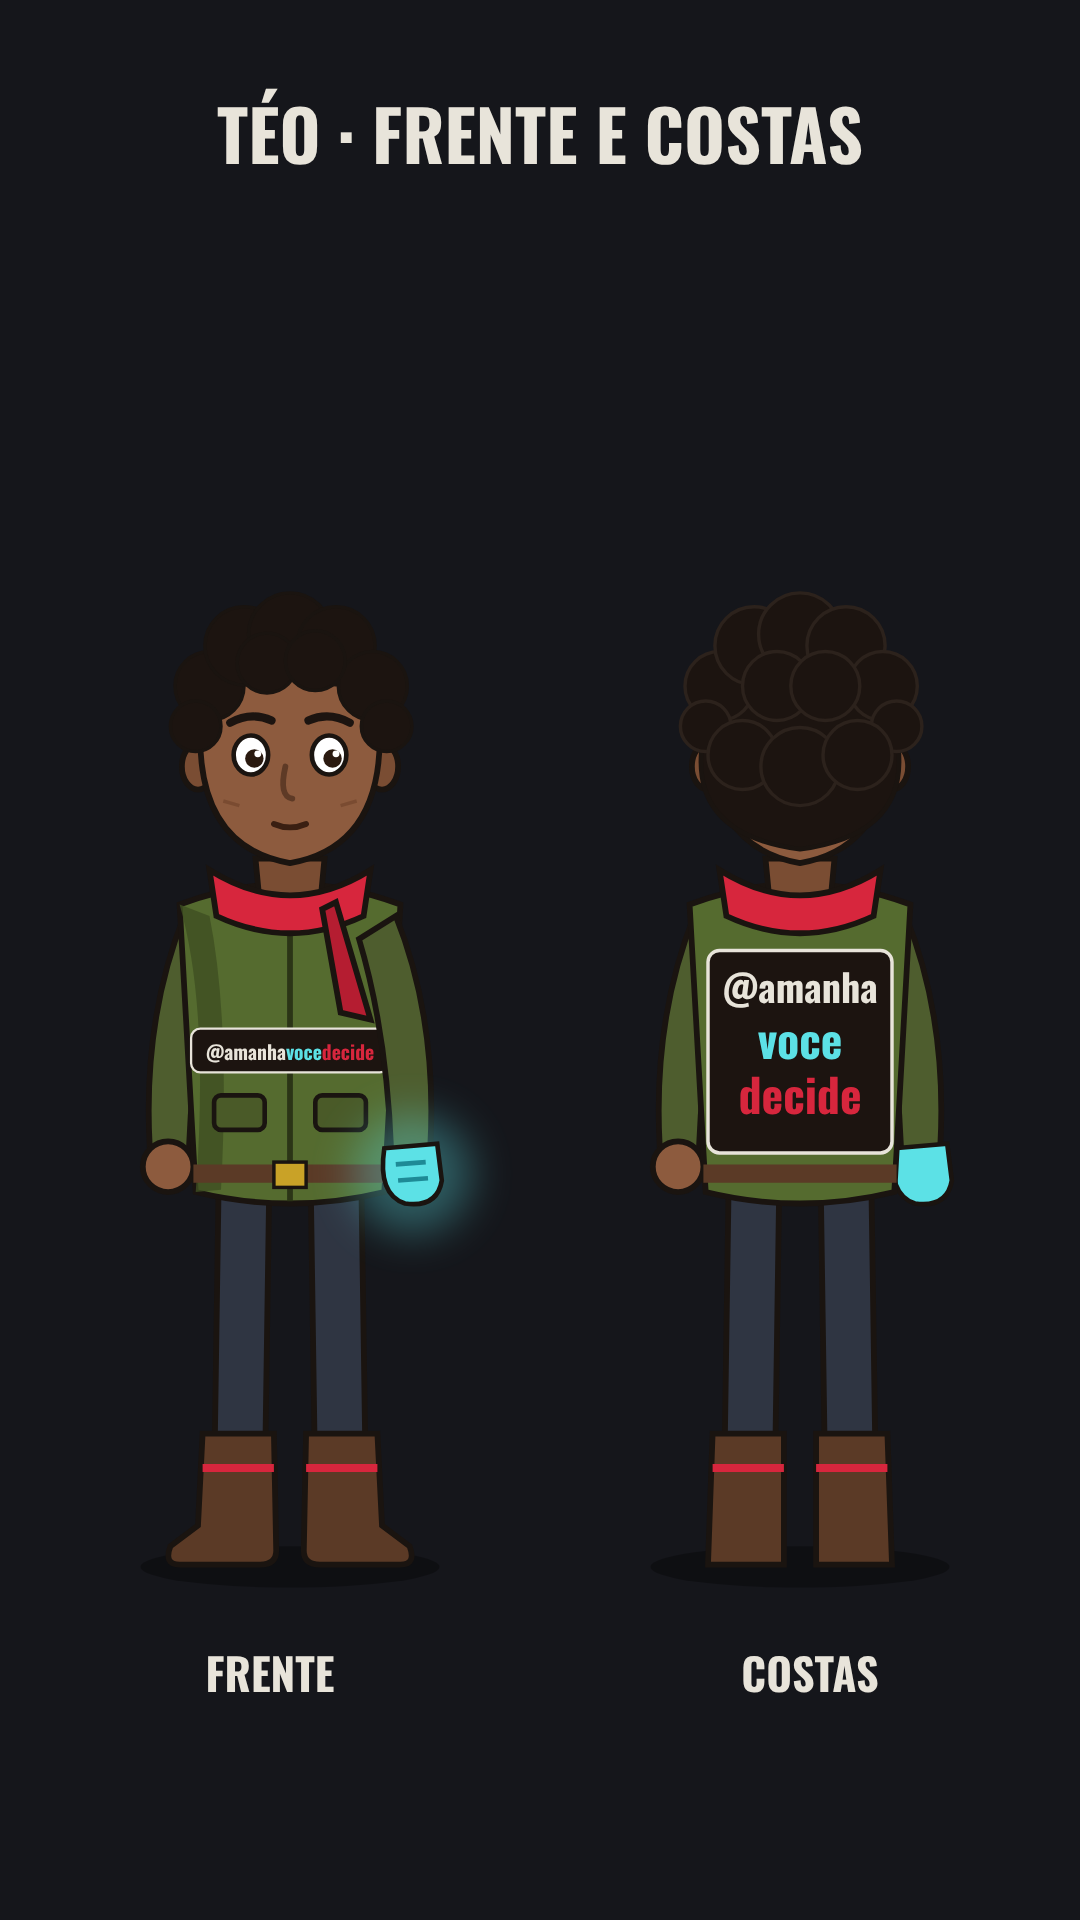
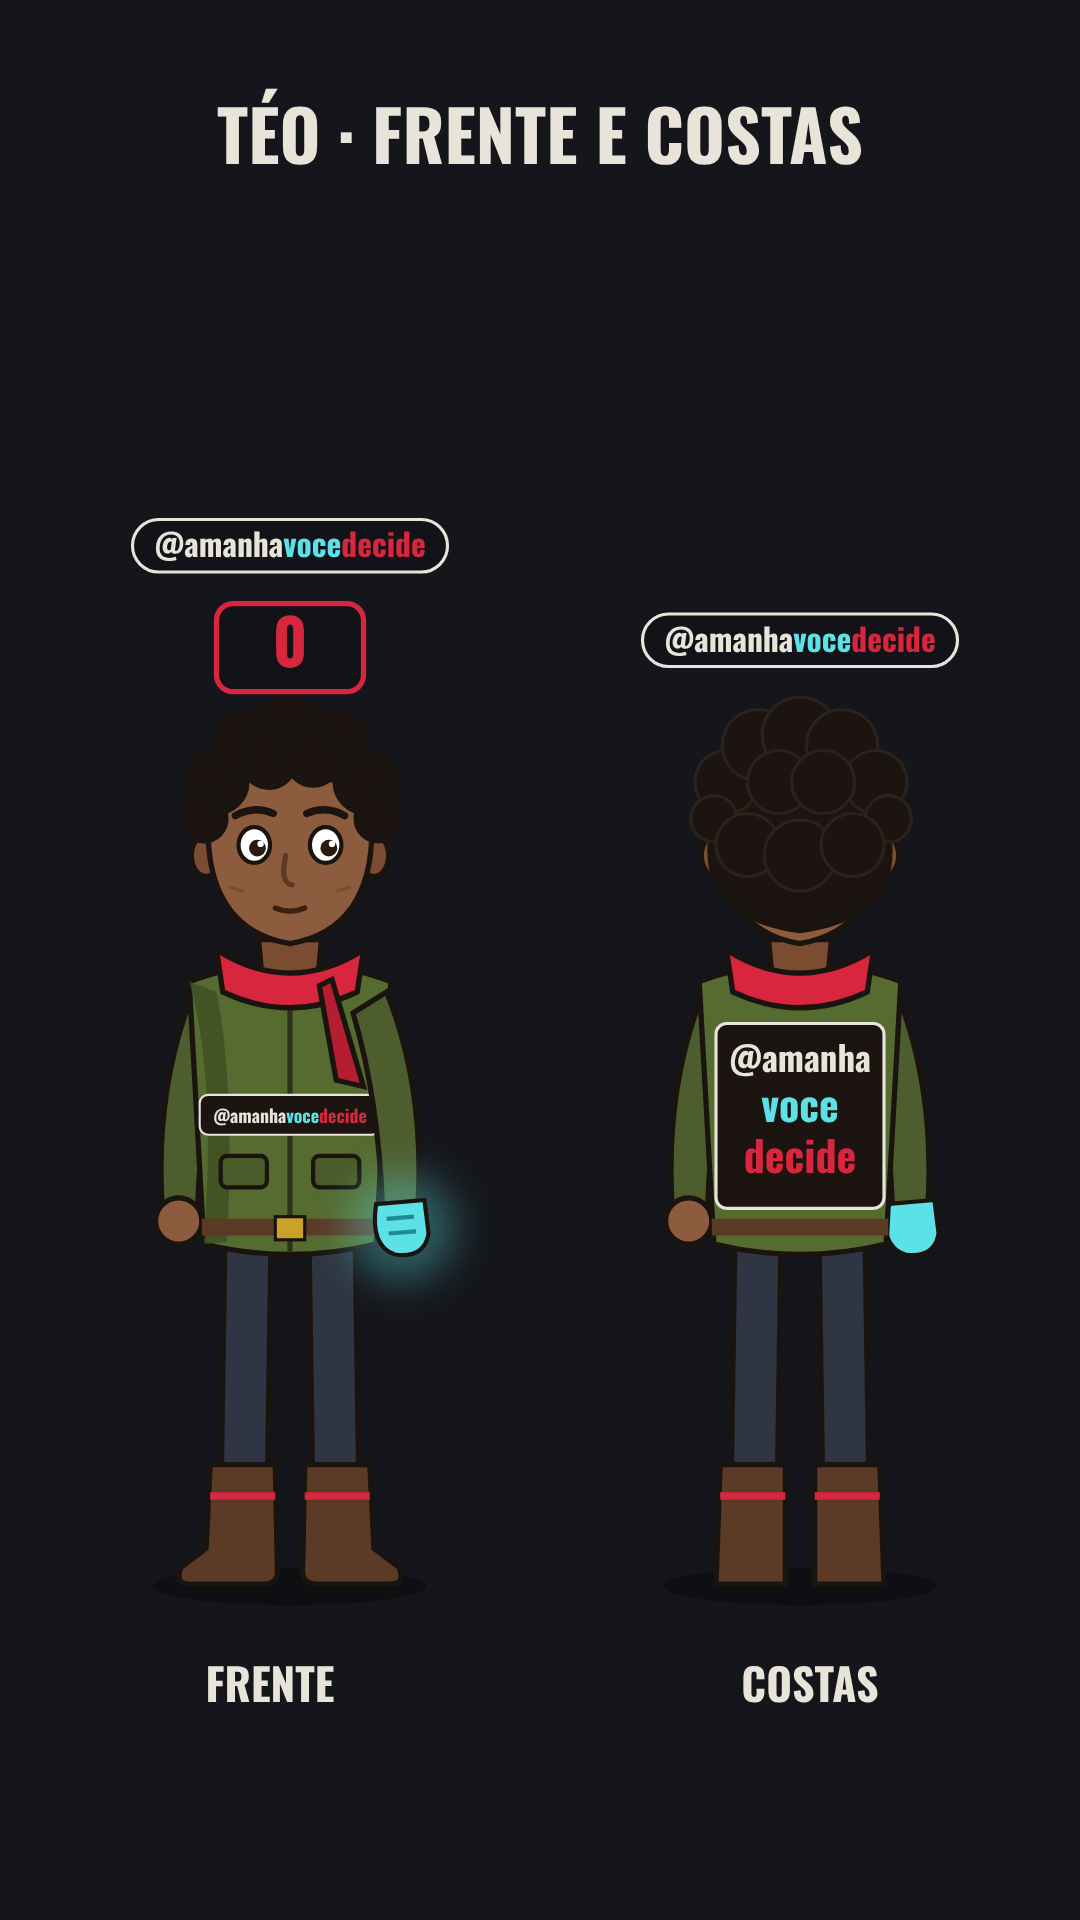
chore: add name tag above Téo's head and restore expression rig
Claude-Session: https://claude.ai/code/session_019h7FgXJJ13iRwHfbupnfvq

Changed region(s): [[0.1222, 0.25, 0.4583, 0.9062], [0.6111, 0.4375, 0.8861, 0.9062], [0.5806, 0.3125, 0.8861, 0.3438]]

diff --git a/amanha-voce-decide/serie-nivel0/marca/teo-frente-costas.html b/amanha-voce-decide/serie-nivel0/marca/teo-frente-costas.html
@@ -6,7 +6,7 @@ body{margin:0;width:1080px;height:1920px;background:#070708;font-family:Osw}
 .t{position:absolute;left:0;width:1080px;text-align:center;color:#E8E4DA;font-weight:700}
 </style></head><body>
 <svg width="1080" height="1920" viewBox="0 0 1080 1920" style="position:absolute;left:0;top:0"><defs><filter id="blur18" x="-100%" y="-100%" width="300%" height="300%"><feGaussianBlur stdDeviation="18"/></filter></defs><rect width="1080" height="1920" fill="#15161b"/>
-<g transform="translate(290 1560) scale(1.15)">
+<g transform="translate(290 1580) scale(1.05)">
 <g id="f">
  <ellipse cx="0" cy="6" rx="130" ry="18" fill="#000" opacity="0.3"/>
  <g id="f-legL"><path d="M-62 -330 L-18 -330 L-22 -60 L-66 -60 Z" fill="#2f3542" stroke="#1a1410" stroke-width="5"/>
@@ -35,14 +35,14 @@ body{margin:0;width:1080px;height:1920px;background:#070708;font-family:Osw}
   <ellipse cx="80" cy="-690" rx="14" ry="20" fill="#7a4d33" stroke="#1a1410" stroke-width="5"/>
   <path d="M-78 -720 Q-80 -620 0 -606 Q80 -620 78 -720 Q70 -790 0 -792 Q-70 -790 -78 -720 Z" fill="#8D5B3E" stroke="#1a1410" stroke-width="5"/>
   <g fill="#1c1410" stroke="#1a1410" stroke-width="3"><circle cx="-70" cy="-760" r="30"/><circle cx="-40" cy="-795" r="34"/><circle cx="0" cy="-805" r="36"/><circle cx="40" cy="-795" r="34"/><circle cx="72" cy="-760" r="30"/><circle cx="-82" cy="-725" r="22"/><circle cx="84" cy="-725" r="22"/><circle cx="-20" cy="-780" r="26"/><circle cx="22" cy="-782" r="26"/></g>
-  <g id="f-eyes"><ellipse cx="-34" cy="-700" rx="15" ry="17" fill="#fff" stroke="#1a1410" stroke-width="4"/><ellipse cx="34" cy="-700" rx="15" ry="17" fill="#fff" stroke="#1a1410" stroke-width="4"/><circle cx="-31" cy="-697" r="8" fill="#2a1a10"/><circle cx="37" cy="-697" r="8" fill="#2a1a10"/><circle cx="-28" cy="-701" r="3" fill="#fff"/><circle cx="40" cy="-701" r="3" fill="#fff"/></g>
-  <g stroke="#1c1410" stroke-width="7" fill="none" stroke-linecap="round"><path d="M-52 -728 Q-34 -738 -16 -730" /><path d="M16 -730 Q34 -738 52 -728" /></g>
+  <g id="f-x-neutro" opacity="1"><g id="f-eyes-neutro"><ellipse cx="-34" cy="-700" rx="15" ry="17" fill="#fff" stroke="#1a1410" stroke-width="4"/><ellipse cx="34" cy="-700" rx="15" ry="17" fill="#fff" stroke="#1a1410" stroke-width="4"/><circle cx="-31" cy="-697" r="8" fill="#2a1a10"/><circle cx="37" cy="-697" r="8" fill="#2a1a10"/><circle cx="-28" cy="-701" r="3" fill="#fff"/><circle cx="40" cy="-701" r="3" fill="#fff"/></g><g stroke="#1c1410" stroke-width="7" fill="none" stroke-linecap="round"><path d="M-52 -728 Q-34 -738 -16 -730" /><path d="M16 -730 Q34 -738 52 -728" /></g><path d="M-14 -640 Q0 -634 14 -640" stroke="#3a1f12" stroke-width="5" fill="none" stroke-linecap="round"/></g><g id="f-x-medo" opacity="0"><g id="f-eyes-medo"><ellipse cx="-34" cy="-702" rx="17" ry="21" fill="#fff" stroke="#1a1410" stroke-width="4"/><ellipse cx="34" cy="-702" rx="17" ry="21" fill="#fff" stroke="#1a1410" stroke-width="4"/><circle cx="-34" cy="-700" r="5" fill="#2a1a10"/><circle cx="34" cy="-700" r="5" fill="#2a1a10"/></g><g stroke="#1c1410" stroke-width="7" fill="none" stroke-linecap="round"><path d="M-52 -738 Q-36 -750 -18 -742" /><path d="M18 -742 Q36 -750 52 -738" /></g><ellipse cx="0" cy="-638" rx="12" ry="15" fill="#3a1f12"/></g><g id="f-x-decidido" opacity="0"><g id="f-eyes-decidido"><path d="M-50 -704 Q-34 -712 -18 -704 L-18 -696 Q-34 -690 -50 -696 Z" fill="#fff" stroke="#1a1410" stroke-width="4"/><path d="M18 -704 Q34 -712 50 -704 L50 -696 Q34 -690 18 -696 Z" fill="#fff" stroke="#1a1410" stroke-width="4"/><circle cx="-32" cy="-700" r="6" fill="#2a1a10"/><circle cx="36" cy="-700" r="6" fill="#2a1a10"/></g><g stroke="#1c1410" stroke-width="7" fill="none" stroke-linecap="round"><path d="M-54 -726 L-16 -716" /><path d="M16 -716 L54 -726" /></g><path d="M-16 -638 L16 -642" stroke="#3a1f12" stroke-width="5" fill="none" stroke-linecap="round"/></g>
   <path d="M-4 -690 Q-10 -664 2 -662" stroke="#5e3a26" stroke-width="5" fill="none" stroke-linecap="round"/>
-  <path d="M-14 -640 Q0 -634 14 -640" stroke="#3a1f12" stroke-width="5" fill="none" stroke-linecap="round"/>
   <path d="M-58 -660 L-44 -656 M44 -656 L58 -660" stroke="#6e4229" stroke-width="3" opacity="0.6"/>
  </g>
+ <g id="f-lvl"><rect x="-70" y="-930" width="140" height="84" rx="16" fill="#111318" stroke="#D7263D" stroke-width="5"/><text id="f-lvlt" x="0" y="-870" font-family="Oswald, Osw" font-weight="700" font-size="60" text-anchor="middle" fill="#D7263D">0</text></g>
+ <g id="f-tag"><rect x="-150" y="-1010" width="300" height="50" rx="25" fill="#111318" fill-opacity="0.85" stroke="#E8E4DA" stroke-width="3"/><text x="0" y="-974" font-family="Oswald, Osw" font-weight="700" font-size="30" text-anchor="middle" fill="#E8E4DA">@amanha<tspan fill="#5CE1E6">voce</tspan><tspan fill="#D7263D">decide</tspan></text></g>
 </g></g>
-<g transform="translate(800 1560) scale(1.15)">
+<g transform="translate(800 1580) scale(1.05)">
 <g id="b">
  <ellipse cx="0" cy="6" rx="130" ry="18" fill="#000" opacity="0.3"/>
  <g><path d="M-62 -330 L-18 -330 L-22 -60 L-66 -60 Z" fill="#2f3542" stroke="#1a1410" stroke-width="5"/>
@@ -64,7 +64,8 @@ body{margin:0;width:1080px;height:1920px;background:#070708;font-family:Osw}
  <path d="M-78 -720 Q-80 -620 0 -606 Q80 -620 78 -720 Q70 -790 0 -792 Q-70 -790 -78 -720 Z" fill="#8D5B3E" stroke="#1a1410" stroke-width="5"/>
  <path d="M-86 -700 Q-90 -630 0 -618 Q90 -630 86 -700 Q84 -800 0 -812 Q-84 -800 -86 -700 Z" fill="#1c1410" stroke="#1a1410" stroke-width="4"/>
  <g fill="#1c1410" stroke="#2c221c" stroke-width="3"><circle cx="-70" cy="-760" r="30"/><circle cx="-40" cy="-795" r="34"/><circle cx="0" cy="-805" r="36"/><circle cx="40" cy="-795" r="34"/><circle cx="72" cy="-760" r="30"/><circle cx="-82" cy="-725" r="22"/><circle cx="84" cy="-725" r="22"/><circle cx="-50" cy="-700" r="30"/><circle cx="0" cy="-690" r="34"/><circle cx="50" cy="-700" r="30"/><circle cx="-20" cy="-760" r="30"/><circle cx="22" cy="-760" r="30"/></g>
+ <g id="b-tag"><rect x="-150" y="-920" width="300" height="50" rx="25" fill="#111318" fill-opacity="0.85" stroke="#E8E4DA" stroke-width="3"/><text x="0" y="-884" font-family="Oswald, Osw" font-weight="700" font-size="30" text-anchor="middle" fill="#E8E4DA">@amanha<tspan fill="#5CE1E6">voce</tspan><tspan fill="#D7263D">decide</tspan></text></g>
 </g></g></svg>
 <div class="t" style="top:80px;font-size:70px">TÉO · FRENTE E COSTAS</div>
-<div class="t" style="top:1640px;font-size:44px;width:540px">FRENTE</div><div class="t" style="top:1640px;left:540px;font-size:44px;width:540px">COSTAS</div>
+<div class="t" style="top:1650px;font-size:44px;width:540px">FRENTE</div><div class="t" style="top:1650px;left:540px;font-size:44px;width:540px">COSTAS</div>
 </body></html>

diff --git a/amanha-voce-decide/serie-nivel0/ep01/teo.py b/amanha-voce-decide/serie-nivel0/ep01/teo.py
@@ -1,17 +1,20 @@
 # Personagem fixo "Téo" (SVG). Origem: pés em (0,0), altura ~860.
 OUT="#1a1410"
-def teo(p="teo", expr="neutro", glow=True):
-    eyes = {
+def teo(p="teo", expr="neutro", glow=True, level=None, level_color="#D7263D", tag=True):
+    EY = {
      "neutro": '<ellipse cx="-34" cy="-700" rx="15" ry="17" fill="#fff" stroke="{o}" stroke-width="4"/><ellipse cx="34" cy="-700" rx="15" ry="17" fill="#fff" stroke="{o}" stroke-width="4"/><circle cx="-31" cy="-697" r="8" fill="#2a1a10"/><circle cx="37" cy="-697" r="8" fill="#2a1a10"/><circle cx="-28" cy="-701" r="3" fill="#fff"/><circle cx="40" cy="-701" r="3" fill="#fff"/>',
      "medo": '<ellipse cx="-34" cy="-702" rx="17" ry="21" fill="#fff" stroke="{o}" stroke-width="4"/><ellipse cx="34" cy="-702" rx="17" ry="21" fill="#fff" stroke="{o}" stroke-width="4"/><circle cx="-34" cy="-700" r="5" fill="#2a1a10"/><circle cx="34" cy="-700" r="5" fill="#2a1a10"/>',
      "decidido": '<path d="M-50 -704 Q-34 -712 -18 -704 L-18 -696 Q-34 -690 -50 -696 Z" fill="#fff" stroke="{o}" stroke-width="4"/><path d="M18 -704 Q34 -712 50 -704 L50 -696 Q34 -690 18 -696 Z" fill="#fff" stroke="{o}" stroke-width="4"/><circle cx="-32" cy="-700" r="6" fill="#2a1a10"/><circle cx="36" cy="-700" r="6" fill="#2a1a10"/>',
-    }[expr].replace("{o}", OUT)
-    brows = {"neutro":'<path d="M-52 -728 Q-34 -738 -16 -730" /><path d="M16 -730 Q34 -738 52 -728" />',
+    }
+    BR = {"neutro":'<path d="M-52 -728 Q-34 -738 -16 -730" /><path d="M16 -730 Q34 -738 52 -728" />',
              "medo":'<path d="M-52 -738 Q-36 -750 -18 -742" /><path d="M18 -742 Q36 -750 52 -738" />',
-             "decidido":'<path d="M-54 -726 L-16 -716" /><path d="M16 -716 L54 -726" />'}[expr]
-    mouth = {"neutro":'<path d="M-14 -640 Q0 -634 14 -640" stroke="#3a1f12" stroke-width="5" fill="none" stroke-linecap="round"/>',
+             "decidido":'<path d="M-54 -726 L-16 -716" /><path d="M16 -716 L54 -726" />'}
+    MO = {"neutro":'<path d="M-14 -640 Q0 -634 14 -640" stroke="#3a1f12" stroke-width="5" fill="none" stroke-linecap="round"/>',
              "medo":'<ellipse cx="0" cy="-638" rx="12" ry="15" fill="#3a1f12"/>',
-             "decidido":'<path d="M-16 -638 L16 -642" stroke="#3a1f12" stroke-width="5" fill="none" stroke-linecap="round"/>'}[expr]
+             "decidido":'<path d="M-16 -638 L16 -642" stroke="#3a1f12" stroke-width="5" fill="none" stroke-linecap="round"/>'}
+    faces = "".join(f'<g id="{p}-x-{k}" opacity="{1 if k == expr else 0}"><g id="{p}-eyes-{k}">{EY[k].replace("{o}", OUT)}</g><g stroke="#1c1410" stroke-width="7" fill="none" stroke-linecap="round">{BR[k]}</g>{MO[k]}</g>' for k in EY)
+    tagsvg = nametag(-1010 if level is not None else -920) if tag else ""
+    lvl = (f'<g id="{p}-lvl"><rect x="-70" y="-930" width="140" height="84" rx="16" fill="#111318" stroke="{level_color}" stroke-width="5"/><text id="{p}-lvlt" x="0" y="-870" font-family="Oswald, Osw" font-weight="700" font-size="60" text-anchor="middle" fill="{level_color}">{level}</text></g>' if level is not None else "")
     curls = "".join(f'<circle cx="{x}" cy="{y}" r="{r}"/>' for x,y,r in [(-70,-760,30),(-40,-795,34),(0,-805,36),(40,-795,34),(72,-760,30),(-82,-725,22),(84,-725,22),(-20,-780,26),(22,-782,26)])
     glove = ('<g id="%s-glow"><circle cx="0" cy="0" r="52" fill="#5CE1E6" opacity="0.35" filter="url(#blur18)"/></g>' % p if glow else "") + \
             f'<path d="M-24 -22 Q-30 18 -6 26 Q22 30 26 6 L22 -26 Z" fill="#5CE1E6" stroke="{OUT}" stroke-width="4"/><path d="M-14 -8 L12 -10 M-12 6 L14 4" stroke="#1e8a96" stroke-width="4"/>'
@@ -44,13 +47,18 @@ def teo(p="teo", expr="neutro", glow=True):
   <ellipse cx="80" cy="-690" rx="14" ry="20" fill="#7a4d33" stroke="{OUT}" stroke-width="5"/>
   <path d="M-78 -720 Q-80 -620 0 -606 Q80 -620 78 -720 Q70 -790 0 -792 Q-70 -790 -78 -720 Z" fill="#8D5B3E" stroke="{OUT}" stroke-width="5"/>
   <g fill="#1c1410" stroke="{OUT}" stroke-width="3">{curls}</g>
-  <g id="{p}-eyes">{eyes}</g>
-  <g stroke="#1c1410" stroke-width="7" fill="none" stroke-linecap="round">{brows}</g>
+  {faces}
   <path d="M-4 -690 Q-10 -664 2 -662" stroke="#5e3a26" stroke-width="5" fill="none" stroke-linecap="round"/>
-  {mouth}
   <path d="M-58 -660 L-44 -656 M44 -656 L58 -660" stroke="#6e4229" stroke-width="3" opacity="0.6"/>
  </g>
+ {lvl}
+ <g id="{p}-tag">{tagsvg}</g>
 </g>'''
+def nametag(y):
+    return (f'<rect x="-150" y="{y}" width="300" height="50" rx="25" fill="#111318" fill-opacity="0.85" stroke="#E8E4DA" stroke-width="3"/>'
+            f'<text x="0" y="{y + 36}" font-family="Oswald, Osw" font-weight="700" font-size="30" text-anchor="middle" fill="#E8E4DA">@amanha<tspan fill="#5CE1E6">voce</tspan><tspan fill="#D7263D">decide</tspan></text>')
+
+
 DEFS='<defs><filter id="blur18" x="-100%" y="-100%" width="300%" height="300%"><feGaussianBlur stdDeviation="18"/></filter></defs>'
 
 
@@ -79,4 +87,5 @@ def teo_back(p="teob"):
  <path d="M-78 -720 Q-80 -620 0 -606 Q80 -620 78 -720 Q70 -790 0 -792 Q-70 -790 -78 -720 Z" fill="#8D5B3E" stroke="{OUT}" stroke-width="5"/>
  <path d="M-86 -700 Q-90 -630 0 -618 Q90 -630 86 -700 Q84 -800 0 -812 Q-84 -800 -86 -700 Z" fill="#1c1410" stroke="{OUT}" stroke-width="4"/>
  <g fill="#1c1410" stroke="#2c221c" stroke-width="3">{curls}</g>
+ <g id="{p}-tag">{nametag(-920)}</g>
 </g>'''

diff --git a/amanha-voce-decide/serie-nivel0/marca/teo.py b/amanha-voce-decide/serie-nivel0/marca/teo.py
@@ -1,17 +1,20 @@
 # Personagem fixo "Téo" (SVG). Origem: pés em (0,0), altura ~860.
 OUT="#1a1410"
-def teo(p="teo", expr="neutro", glow=True):
-    eyes = {
+def teo(p="teo", expr="neutro", glow=True, level=None, level_color="#D7263D", tag=True):
+    EY = {
      "neutro": '<ellipse cx="-34" cy="-700" rx="15" ry="17" fill="#fff" stroke="{o}" stroke-width="4"/><ellipse cx="34" cy="-700" rx="15" ry="17" fill="#fff" stroke="{o}" stroke-width="4"/><circle cx="-31" cy="-697" r="8" fill="#2a1a10"/><circle cx="37" cy="-697" r="8" fill="#2a1a10"/><circle cx="-28" cy="-701" r="3" fill="#fff"/><circle cx="40" cy="-701" r="3" fill="#fff"/>',
      "medo": '<ellipse cx="-34" cy="-702" rx="17" ry="21" fill="#fff" stroke="{o}" stroke-width="4"/><ellipse cx="34" cy="-702" rx="17" ry="21" fill="#fff" stroke="{o}" stroke-width="4"/><circle cx="-34" cy="-700" r="5" fill="#2a1a10"/><circle cx="34" cy="-700" r="5" fill="#2a1a10"/>',
      "decidido": '<path d="M-50 -704 Q-34 -712 -18 -704 L-18 -696 Q-34 -690 -50 -696 Z" fill="#fff" stroke="{o}" stroke-width="4"/><path d="M18 -704 Q34 -712 50 -704 L50 -696 Q34 -690 18 -696 Z" fill="#fff" stroke="{o}" stroke-width="4"/><circle cx="-32" cy="-700" r="6" fill="#2a1a10"/><circle cx="36" cy="-700" r="6" fill="#2a1a10"/>',
-    }[expr].replace("{o}", OUT)
-    brows = {"neutro":'<path d="M-52 -728 Q-34 -738 -16 -730" /><path d="M16 -730 Q34 -738 52 -728" />',
+    }
+    BR = {"neutro":'<path d="M-52 -728 Q-34 -738 -16 -730" /><path d="M16 -730 Q34 -738 52 -728" />',
              "medo":'<path d="M-52 -738 Q-36 -750 -18 -742" /><path d="M18 -742 Q36 -750 52 -738" />',
-             "decidido":'<path d="M-54 -726 L-16 -716" /><path d="M16 -716 L54 -726" />'}[expr]
-    mouth = {"neutro":'<path d="M-14 -640 Q0 -634 14 -640" stroke="#3a1f12" stroke-width="5" fill="none" stroke-linecap="round"/>',
+             "decidido":'<path d="M-54 -726 L-16 -716" /><path d="M16 -716 L54 -726" />'}
+    MO = {"neutro":'<path d="M-14 -640 Q0 -634 14 -640" stroke="#3a1f12" stroke-width="5" fill="none" stroke-linecap="round"/>',
              "medo":'<ellipse cx="0" cy="-638" rx="12" ry="15" fill="#3a1f12"/>',
-             "decidido":'<path d="M-16 -638 L16 -642" stroke="#3a1f12" stroke-width="5" fill="none" stroke-linecap="round"/>'}[expr]
+             "decidido":'<path d="M-16 -638 L16 -642" stroke="#3a1f12" stroke-width="5" fill="none" stroke-linecap="round"/>'}
+    faces = "".join(f'<g id="{p}-x-{k}" opacity="{1 if k == expr else 0}"><g id="{p}-eyes-{k}">{EY[k].replace("{o}", OUT)}</g><g stroke="#1c1410" stroke-width="7" fill="none" stroke-linecap="round">{BR[k]}</g>{MO[k]}</g>' for k in EY)
+    tagsvg = nametag(-1010 if level is not None else -920) if tag else ""
+    lvl = (f'<g id="{p}-lvl"><rect x="-70" y="-930" width="140" height="84" rx="16" fill="#111318" stroke="{level_color}" stroke-width="5"/><text id="{p}-lvlt" x="0" y="-870" font-family="Oswald, Osw" font-weight="700" font-size="60" text-anchor="middle" fill="{level_color}">{level}</text></g>' if level is not None else "")
     curls = "".join(f'<circle cx="{x}" cy="{y}" r="{r}"/>' for x,y,r in [(-70,-760,30),(-40,-795,34),(0,-805,36),(40,-795,34),(72,-760,30),(-82,-725,22),(84,-725,22),(-20,-780,26),(22,-782,26)])
     glove = ('<g id="%s-glow"><circle cx="0" cy="0" r="52" fill="#5CE1E6" opacity="0.35" filter="url(#blur18)"/></g>' % p if glow else "") + \
             f'<path d="M-24 -22 Q-30 18 -6 26 Q22 30 26 6 L22 -26 Z" fill="#5CE1E6" stroke="{OUT}" stroke-width="4"/><path d="M-14 -8 L12 -10 M-12 6 L14 4" stroke="#1e8a96" stroke-width="4"/>'
@@ -44,13 +47,18 @@ def teo(p="teo", expr="neutro", glow=True):
   <ellipse cx="80" cy="-690" rx="14" ry="20" fill="#7a4d33" stroke="{OUT}" stroke-width="5"/>
   <path d="M-78 -720 Q-80 -620 0 -606 Q80 -620 78 -720 Q70 -790 0 -792 Q-70 -790 -78 -720 Z" fill="#8D5B3E" stroke="{OUT}" stroke-width="5"/>
   <g fill="#1c1410" stroke="{OUT}" stroke-width="3">{curls}</g>
-  <g id="{p}-eyes">{eyes}</g>
-  <g stroke="#1c1410" stroke-width="7" fill="none" stroke-linecap="round">{brows}</g>
+  {faces}
   <path d="M-4 -690 Q-10 -664 2 -662" stroke="#5e3a26" stroke-width="5" fill="none" stroke-linecap="round"/>
-  {mouth}
   <path d="M-58 -660 L-44 -656 M44 -656 L58 -660" stroke="#6e4229" stroke-width="3" opacity="0.6"/>
  </g>
+ {lvl}
+ <g id="{p}-tag">{tagsvg}</g>
 </g>'''
+def nametag(y):
+    return (f'<rect x="-150" y="{y}" width="300" height="50" rx="25" fill="#111318" fill-opacity="0.85" stroke="#E8E4DA" stroke-width="3"/>'
+            f'<text x="0" y="{y + 36}" font-family="Oswald, Osw" font-weight="700" font-size="30" text-anchor="middle" fill="#E8E4DA">@amanha<tspan fill="#5CE1E6">voce</tspan><tspan fill="#D7263D">decide</tspan></text>')
+
+
 DEFS='<defs><filter id="blur18" x="-100%" y="-100%" width="300%" height="300%"><feGaussianBlur stdDeviation="18"/></filter></defs>'
 
 
@@ -79,4 +87,5 @@ def teo_back(p="teob"):
  <path d="M-78 -720 Q-80 -620 0 -606 Q80 -620 78 -720 Q70 -790 0 -792 Q-70 -790 -78 -720 Z" fill="#8D5B3E" stroke="{OUT}" stroke-width="5"/>
  <path d="M-86 -700 Q-90 -630 0 -618 Q90 -630 86 -700 Q84 -800 0 -812 Q-84 -800 -86 -700 Z" fill="#1c1410" stroke="{OUT}" stroke-width="4"/>
  <g fill="#1c1410" stroke="#2c221c" stroke-width="3">{curls}</g>
+ <g id="{p}-tag">{nametag(-920)}</g>
 </g>'''
